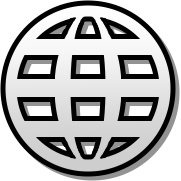
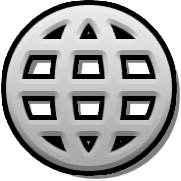
Rework and fix multiple sprites (#1896)
* Cleanup a bunch of sprites

* Fixed GitHub logo

* Redo keybind sprite again

* Cleanup Keybind sprite more, center sprites

* Fix shadows

* Make the gold refresh button actually gold

* Adjust corners of squares

diff --git a/loader/src/ui/mods/ModsLayer.cpp b/loader/src/ui/mods/ModsLayer.cpp
@@ -377,7 +377,7 @@ bool ModsLayer::init() {
         CircleBaseSize::Medium
     );
     settingsSpr->setScale(.8f);
-    settingsSpr->setTopOffset(ccp(.5f, 0));
+    settingsSpr->setTopOffset(ccp(-0.1f, 0));
     auto settingsBtn = CCMenuItemSpriteExtra::create(
         settingsSpr, this, menu_selector(ModsLayer::onSettings)
     );
@@ -389,7 +389,7 @@ bool ModsLayer::init() {
         CircleBaseSize::Medium
     );
     keybindsSpr->setScale(.8f);
-    keybindsSpr->setTopOffset(ccp(0, 1));
+    keybindsSpr->setTopOffset(ccp(0.2f, 1));
     auto keybindsBtn = CCMenuItemSpriteExtra::create(
         keybindsSpr, this, menu_selector(ModsLayer::onKeybinds)
     );
@@ -397,14 +397,13 @@ bool ModsLayer::init() {
     actionsMenu->addChild(keybindsBtn);
 
     if (Mod::get()->getSettingValue<bool>("restart-button")) {
-        auto restartGDSpr = CCSprite::createWithSpriteFrameName("reload.png"_spr);
-        restartGDSpr->setColor({ 255, 215, 65 });
+        auto restartGDSpr = CCSprite::createWithSpriteFrameName("reload-gold.png"_spr);
         auto restartGDCircleSpr = createGeodeCircleButton(
             restartGDSpr, 1.f,
             CircleBaseSize::Medium
         );
         restartGDCircleSpr->setScale(.8f);
-        restartGDCircleSpr->setTopOffset(ccp(.5f, 0));
+        restartGDCircleSpr->setTopOffset(ccp(1.5f, -1.f));
         auto restartGDBtn = CCMenuItemSpriteExtra::create(
             restartGDCircleSpr, this, menu_selector(ModsLayer::onRestartGD)
         );

diff --git a/loader/src/ui/mods/settings/ModSettingsPopup.cpp b/loader/src/ui/mods/settings/ModSettingsPopup.cpp
@@ -25,7 +25,7 @@ bool ModSettingsPopup::init(Mod* mod, bool forceDisableTheme) {
         ->setGap(5)
         ->setAutoGrowAxis(30)
         ->setGrowCrossAxis(true));
-    m_buttonMenu->addChildAtPosition(foldersMenu, Anchor::BottomRight, ccp(-5, 10));
+    m_buttonMenu->addChildAtPosition(foldersMenu, Anchor::BottomRight, ccp(-9, 10));
 
     auto createFolderButton = [&, this](auto subSprName, auto callback) {
         auto folderSpr = CCSprite::createWithSpriteFrameName("folderIcon_001.png");
@@ -46,7 +46,7 @@ bool ModSettingsPopup::init(Mod* mod, bool forceDisableTheme) {
 
     createFolderButton("save.png"_spr, &ModSettingsPopup::onOpenSaveDirectory);
     createFolderButton("settings.png"_spr, &ModSettingsPopup::onOpenConfigDirectory);
-    auto persistentBtn = createFolderButton("persistent.png"_spr, &ModSettingsPopup::onOpenPersistentDirectory);
+    auto persistentBtn = createFolderButton("GJ_lockGray_001.png", &ModSettingsPopup::onOpenPersistentDirectory);
     if (!std::filesystem::exists(mod->getPersistentDir(false))) {
         persistentBtn->setEnabled(false);
         auto spr = static_cast<CCSprite*>(persistentBtn->getNormalImage());

diff --git a/loader/resources/blanks/svgs/gen.py b/loader/resources/blanks/svgs/gen.py
@@ -41,7 +41,7 @@ editor_color_from = ["#C6F249", "#7ADE2D", "#49851B"]
 editor_colors = {
     "Cyan": ["#0effff", "#00d2f6", "#007d94"],
     "Blue": ["#82d6ff", "#80a1ff", "#4d60d2"],
-    "Teal": ["#3cfcbc", "#3cfcbc", "#0f7a68"],
+    "Teal": ["#3cfcbc", "#1accad", "#0f7a68"],
     "Magenta": ["#ffafff", "#f67fff", "#944cca"],
     "Pink": ["#ff93fd", "#ff6fab", "#d44266"],
     "Green": ["#a2f30e", "#58d000", "#347c00"],
